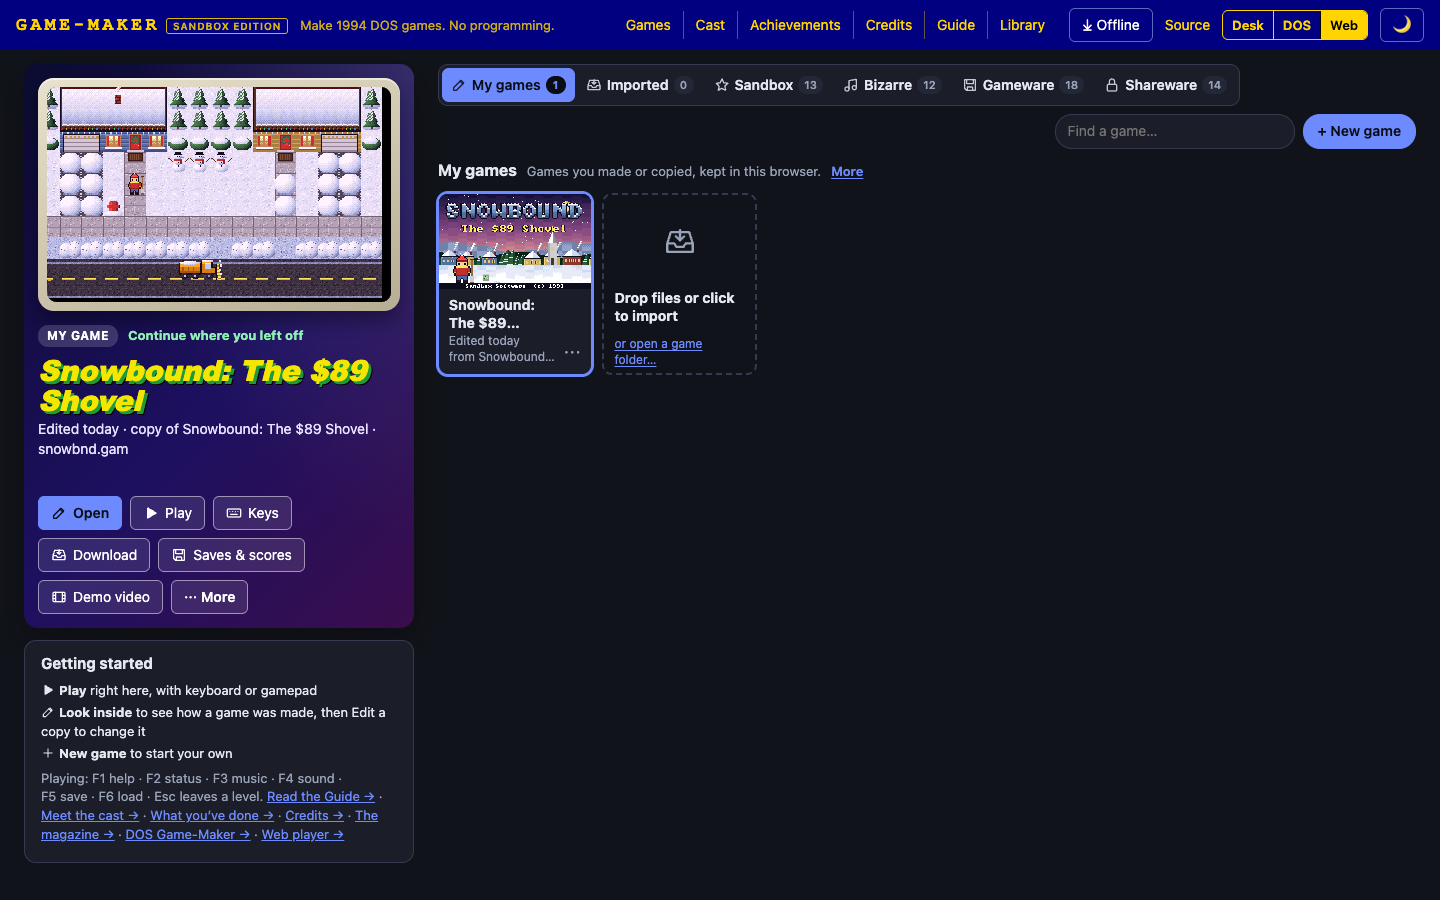
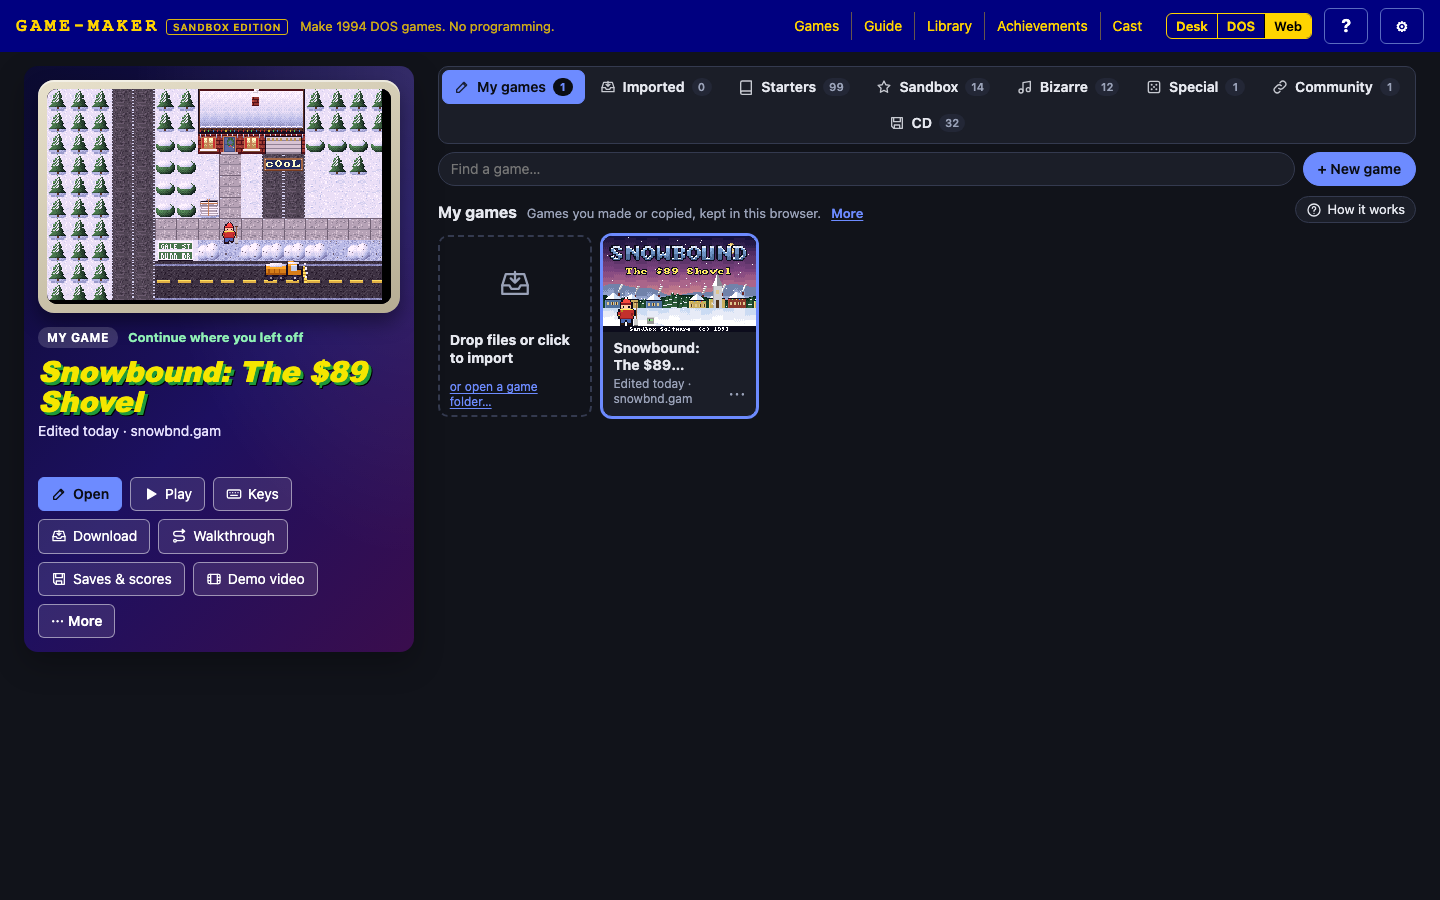
docs/editor.md: retake the 15 outdated editor tour shots (home, Look inside, Play Level, blocks, monsters, palette, voc, Integrator, DOS player, Level check, walkthrough, download, imported, Library room, Assistant) from today's editor on a copy of Snowbound; captions match

Changed region(s): [[0.0, 0.0, 1.0, 0.9333]]

diff --git a/docs/editor.md b/docs/editor.md
@@ -45,7 +45,7 @@ _+ New game_ starts a game ready to play or an empty one, or, with _✦ Describe
 has your own AI build one from a few lines of description (see
 [the Assistant](#the-assistant-and-the-mcp-server)).
 
-![The My games tab with one game, a copy of Snowbound, under "Continue where you left off", and a Getting started box](screenshots/editor/01-my-games.webp)
+![The My games tab with one game, a copy of Snowbound, picked: its side panel says "Continue where you left off" and offers Open, Play, Keys, Download, Walkthrough, Saves & scores and Demo video](screenshots/editor/01-my-games.webp)
 
 Games you make or copy are kept in this browser under _My games_, newest first, and the side
 panel offers to pick up where you left off. Changes save automatically; the editor shows
@@ -87,7 +87,7 @@ doesn't have is never touched.
 
 ## Opening a copy of a Sandbox game
 
-![Snowbound opened with Look inside: a read-only banner with an Edit a copy button, the file list on the left, and the game's scenes as a graph](screenshots/editor/02-look-inside.webp)
+![Snowbound opened with Look inside: a Read-only badge beside an Edit a copy button, the breadcrumb, the file list on the left, and the game's scenes as a graph](screenshots/editor/02-look-inside.webp)
 
 _Look inside_ opens a game exactly as it was released, read-only, so you can see how it was put
 together without changing it. _Edit a copy_ makes your own copy under My games, which every
@@ -224,7 +224,7 @@ games don't end up in your project.
 
 ## Blocks
 
-![The block editor with LaVale Mall's background blocks: the numbered block grid, a large pencil canvas, the 256-color palette, and the block's solid sides and gravity settings](screenshots/editor/05-blocks.webp)
+![The block editor with LaVale Mall's background blocks: the numbered block grid, a large pencil canvas, the 256-color palette, and the Walking tab with the block's solid sides and gravity settings](screenshots/editor/05-blocks.webp)
 
 The block editor is BLOCEDIT: pick a block, draw it with the pencil, shading, fill and lines,
 then say how it behaves in **Walking**, **Touch** and **Time**: which sides are solid, which
@@ -255,7 +255,7 @@ the hero moves and for how many ticks.
 
 ## Palettes
 
-![The palette editor with noon.pal: 256 color swatches, a color picked with its red, green and blue sliders, spread range and shade ramp buttons, and which blocks use the color](screenshots/editor/08-palette.webp)
+![The palette editor with noon.pal: 256 color swatches, the Color, Vision and Backgrounds tabs, a color picked with Color help open above its red, green and blue sliders](screenshots/editor/08-palette.webp)
 
 A palette is 256 colors, as in PALCHOS. Click a color to change it, Shift-click a second to
 pick a range, then spread a blend between them or make a shade ramp. Two colors are special,
@@ -325,7 +325,7 @@ DOS player draws them. The preview on the right is the game's own drawing of it.
 
 ## The Integrator and the DOS player
 
-![The Integrator with snowbnd.gam: the start scene and level scenes as a graph joined by their links, and the start scene's files on the right](screenshots/editor/15-integrator.webp)
+![The Integrator with snowbnd.gam: the start scene and level scenes as a graph joined by their links, with Gale Street picked and its Scene panel on the right: Generate level layout…, Play from here and the scene's files](screenshots/editor/15-integrator.webp)
 
 The `.GAM` file is the Integrator's (GRATOR's): every scene of the game and how they link. Here
 it is a graph. Scenes can be added, arranged and joined, and the side panel lists each scene's
@@ -336,7 +336,7 @@ Demo recordings (`.REC`) have an editor for recording, playback and trimming, in
 making a demo from a bot walkthrough. High-score tables (`.HIS`) have an editor for names
 and scores, separate from the DOS player's screen layout.
 
-![The DOS player panel: tabs for the main menu, text pages, high scores, status, save, load, help and about screens, with the menu words listed on the left and a preview of Snowbound's menu as the DOS player draws it](screenshots/editor/16-dos-player.webp)
+![The DOS player tab of the Overview: a tab for each screen, with Gameplay, Colors and Files among them, the menu words listed on the left, a preview of Snowbound's menu as the DOS player draws it, and the Patch Lab below it](screenshots/editor/16-dos-player.webp)
 
 Authors in the 1990s changed the DOS player's words, colors and screens with a hex editor. The
 DOS player tab of the Overview does it safely, a tab for each screen: rename or hide menu words, move or
@@ -360,18 +360,18 @@ badges, and **☑ Before you upload…** ticks the checklist where the checks ca
 to **My heat map**, which can be combined or compared with the bot's; an exit-reaching take
 can also be kept for a walkthrough.
 
-![Make a walkthrough: a bot's run through each scene, with how it got through each one and where it stopped](screenshots/editor/18-walkthrough.webp)
+![Make a walkthrough: a bot's run through each scene, with how it got through each one, how long it played, and a Play it myself button for each](screenshots/editor/18-walkthrough.webp)
 
 _Make a walkthrough_ sends a bot through every scene, trying quicker play styles first, and
 says how far it got. Its run can be watched, or opened on the map in the Level check.
 **Time for each scene** sets its budget; a partial run still plays as far as it reached.
 For a scene you played and kept, choose **Mine** or **Bot**, then make the walkthrough again
-to continue from there. The picture shows an older run that stopped in LaVale Mall at one
-minute a scene.
+to continue from there. The picture shows one run at a minute a scene, with each scene's play style and a
+**Play it myself** button beside it.
 
 ## Downloads
 
-![The Download dialog: Windows, Mac, Linux, web page, web player, DOS and game files, each with a line on what it is](screenshots/editor/19-download.webp)
+![The Download dialog: web page, web player, DOS, Pocket Player (microSD), game files, Windows, Mac and Linux, each with a line on what it is](screenshots/editor/19-download.webp)
 
 A game downloads as a Windows program, a Mac app or a Linux folder that plays in its own window;
 as a one-page web game or an installable web app; as the web player for your own site; as a DOS
@@ -397,7 +397,7 @@ and note back. Imported cards also show **Tags** for recognized games with curat
 
 ## The Library and the printables
 
-![The Library sorted by type: the Game-Maker Owner's Guide, The Ultimate Owner's Guide and each game's printed manual as cards](screenshots/editor/22-library.webp)
+![The Library as a room: the Card catalog, The stacks, a TV, the Copier and the Notebook, each opening its own part of the Library](screenshots/editor/22-library.webp)
 
 The Library holds everything to read or print: the Game-Maker guides, each game's manual,
 hint book, maps, newsletter, stickers and cards, the walkthroughs and the videos. In the room,
